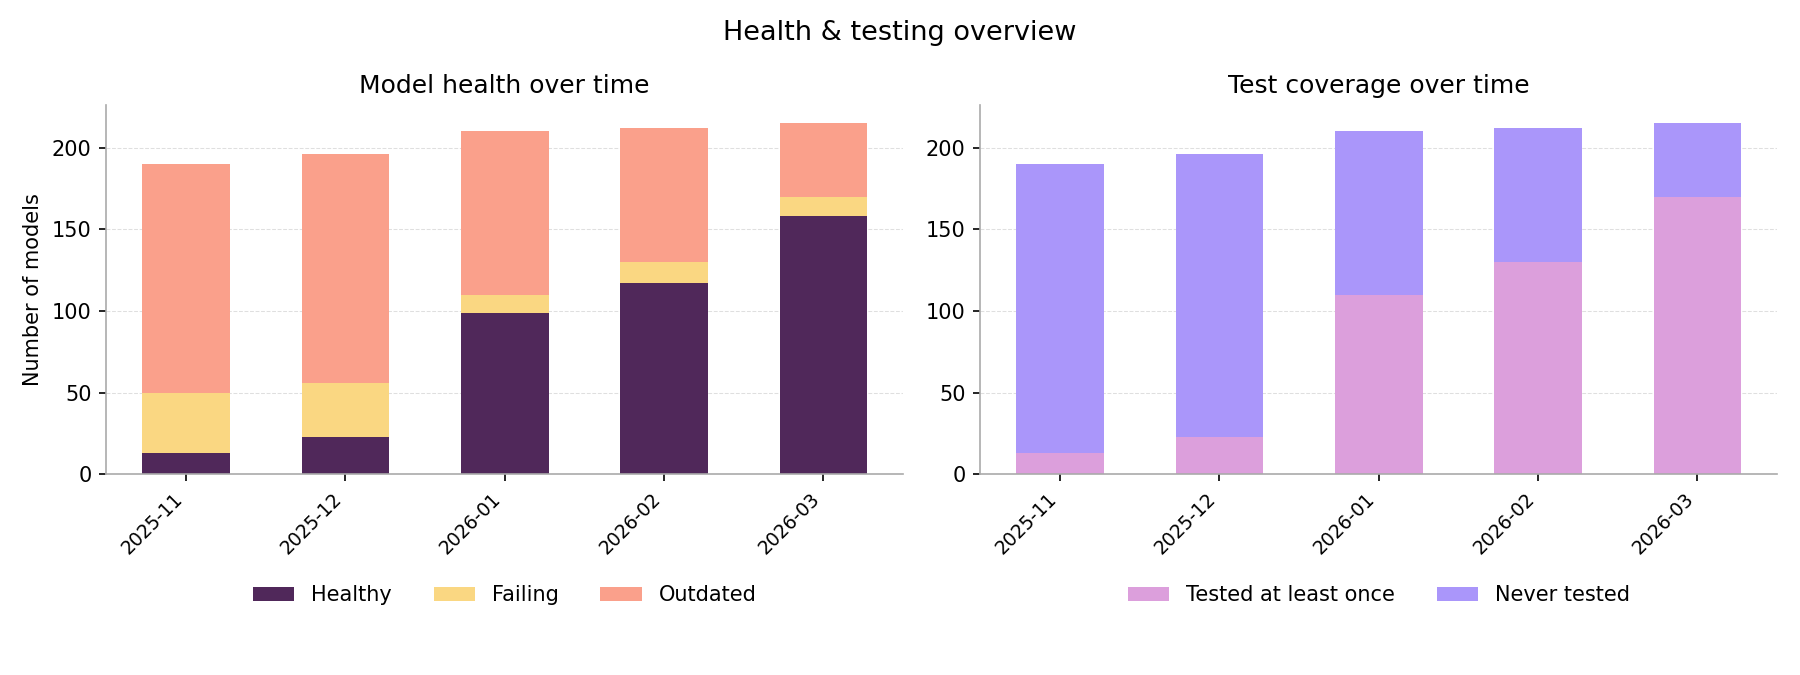
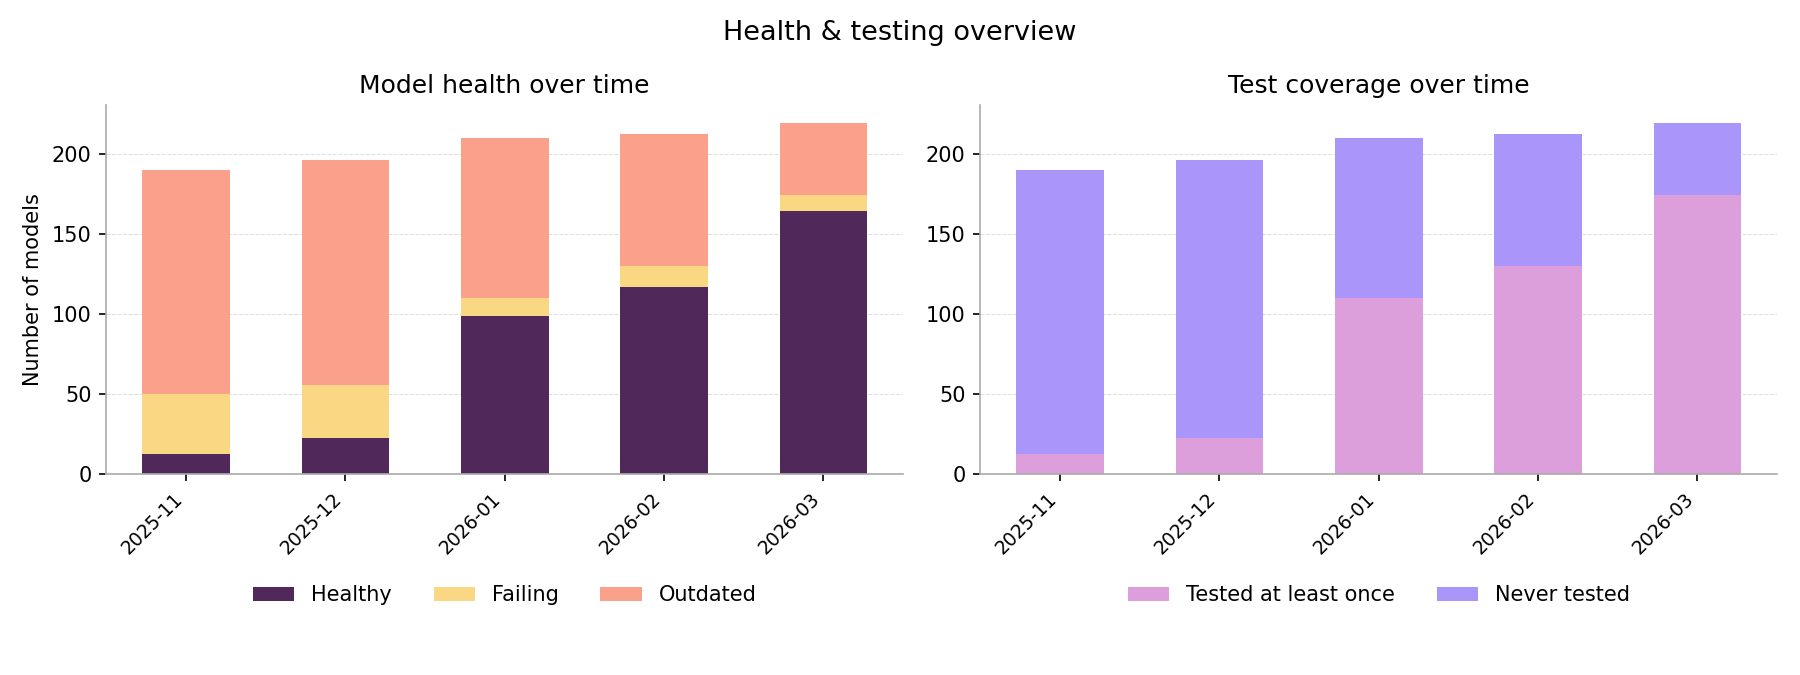
chore: monthly health report

diff --git a/reports/monthly_health_report.md b/reports/monthly_health_report.md
@@ -1,21 +1,69 @@
 # 📊 Monthly Health Report
 
 **Month:** 2026-03
-**Generated at:** 2026-03-01 01:34:25Z (UTC)
+**Generated at:** 2026-03-24 14:57:19Z (UTC)
 
 ## 🔢 Snapshot for this month
 
-- 📦 **Total models:** 215
-- ✅ **Healthy models:** 158
-- 🔴 **Failing models:** 12
+- 📦 **Total models:** 219
+- ✅ **Healthy models:** 164
+- 🔴 **Failing models:** 10
 - ⏳ **Outdated models:** 45
-- 🧪 **Tested at least once:** 170
+- 🧪 **Tested at least once:** 174
 - 🕳 **Never tested:** 45
-- ❗ **With open issues:** 42
+- ❗ **With open issues:** 36
 
 ## 🆕 Models packaged this month
 
-_No new models were added this month._
+| 🧬 Repository | 🪪 Slug |
+|---------------|---------|
+| eos157v | grover-freesolv |
+| eos1af5 | molgrad-caco2 |
+| eos1amr | grover-bbbp |
+| eos1d7r | small-world-zinc |
+| eos1klk | lazychemvis-reference-library |
+| eos1lb5 | mycobacterium-permeability |
+| eos1pu1 | cardiotox-dictrank |
+| eos1ut3 | molfeat-usrcat |
+| eos1vms | chembl-multitask-descriptor |
+| eos24ci | drugtax |
+| eos2db3 | chemical-space-projections-chemdiv |
+| eos2fy6 | s2dv-hepg2-toxicity |
+| eos2hzy | pubchem-sampler |
+| eos2lqb | hob-pre |
+| eos2mhp | grover-bace |
+| eos39co | unimol-representation |
+| eos3kcw | small-world-wuxi |
+| eos3xip | grover-qm8 |
+| eos45di | lazychemvis-enamine-hl |
+| eos481p | grover-toxcast |
+| eos4avb | image-mol-embeddings |
+| eos4cxk | image-mol-sars-cov2 |
+| eos4k4f | standardization |
+| eos4x30 | pmapper-3d |
+| eos4zfy | maip-malaria |
+| eos57bx | reinvent4-mol2mol-scaffold |
+| eos5smc | grover-tox21 |
+| eos694w | reinvent4-mol2mol-medium-similarity |
+| eos6ao8 | molgrad-ppb |
+| eos6fza | grover-clintox |
+| eos6hy3 | image-mol-hiv |
+| eos6o0z | grover-qm7 |
+| eos6pbf | selfies |
+| eos6ru3 | whales-qmug |
+| eos6tpo | chebifier |
+| eos77w8 | grover-sider |
+| eos7asg | padel |
+| eos7w6n | grover-embedding |
+| eos8451 | grover-esol |
+| eos85a3 | grover-lipo |
+| eos8c0o | image-mol-bace |
+| eos8lok | s2dv-hbv |
+| eos935d | meta-trans |
+| eos93h2 | image-mol-gpcr |
+| eos96ia | molgrad-cyp3a4 |
+| eos9cvt | permeability-efflux-mtl |
+| eos9ueu | small-world-enamine-real |
 
 ## 📈 Global trends over time
 
